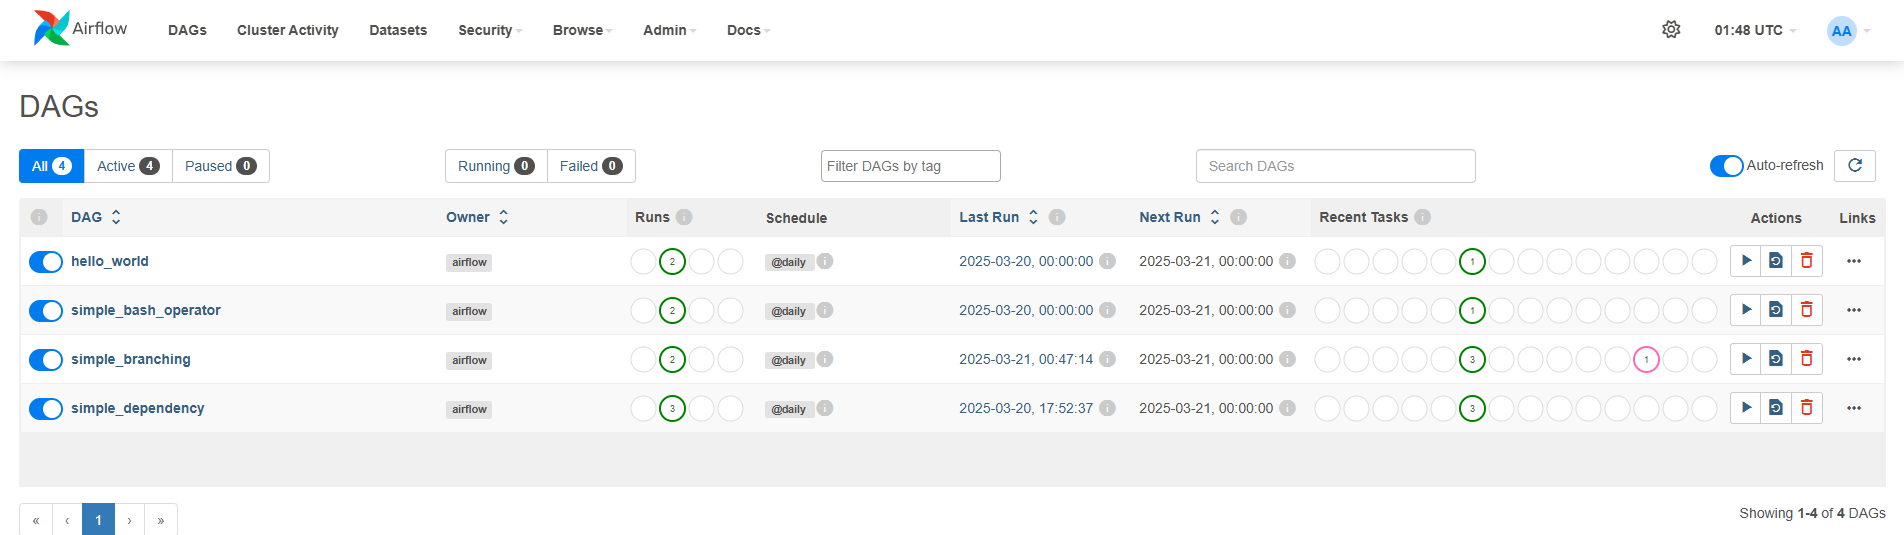
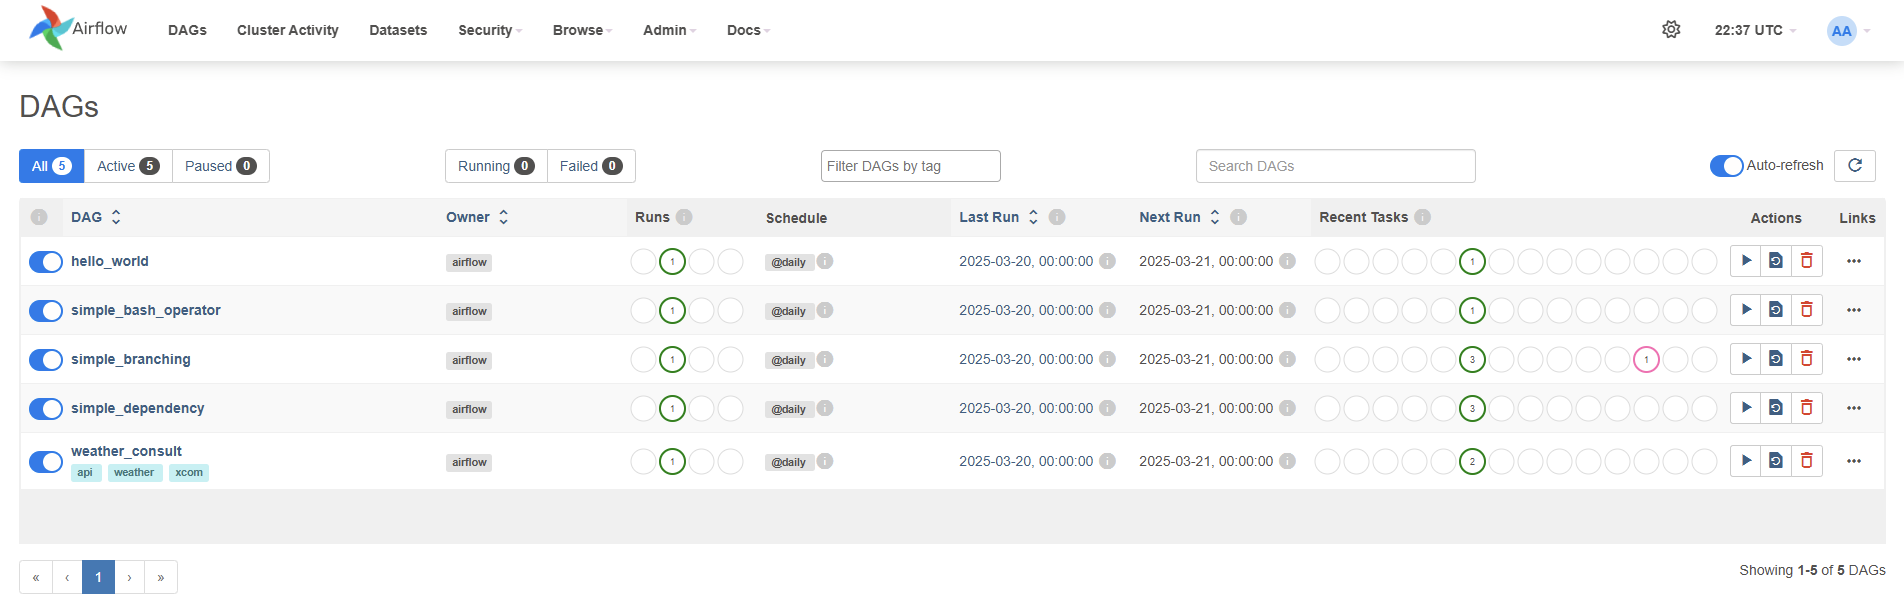
Feat: External Services use guide
- added weather api dag
- updated guide to implement external services such as api
- added new section for custom docker images

diff --git a/quickstart-airflow/dags/dag_weatherapi.py b/quickstart-airflow/dags/dag_weatherapi.py
@@ -1,0 +1,154 @@
+# Este DAG consulta la API de WeatherAPI para obtener datos del clima en Guatemala,
+# exporta los resultados a un archivo JSON y utiliza un FileSensor para monitorear
+# la creación del archivo exportado. Además, utiliza XCom para pasar datos entre tareas.
+
+# Importar librerías necesarias
+from airflow import DAG
+from airflow.operators.python import PythonOperator
+from airflow.utils.dates import days_ago
+from airflow.models import Variable
+from datetime import timedelta
+import requests
+import json
+import logging
+import os
+
+# Configuraciones generales
+CITY = "Guatemala"      
+JSON_FILE_PATH = "/opt/airflow/data/weather_result.json"
+
+default_args = {
+    'owner': 'airflow',
+    'retries': 2,
+    'retry_delay': timedelta(minutes=1),
+}
+
+# Tarea 1: Obtener datos del clima desde WeatherAPI
+def fetch_weather_data(**kwargs):
+    """
+    Consulta la API de WeatherAPI y obtiene datos del clima.
+    
+    Args:
+        **kwargs: Argumentos de contexto de Airflow.
+
+    Raises:
+        ValueError: Si no se encuentra la variable de API Key en Airflow.
+        requests.RequestException: Si hay un error en la petición HTTP.
+
+    Returns:
+        None: Los datos del clima se almacenan en XCom.
+    """
+    # Obtener la API Key de las variables de Airflow
+    # Asegúrate de que la variable 'weatherapi_key' esté configurada en Airflow
+    api_key = Variable.get("weatherapi_key", default_var=None)
+    if not api_key:
+        raise ValueError("No se encontró la variable 'weatherapi_key' en Airflow.")
+
+    # Configurar el endpoint de la API 
+    # Visitar: https://www.weatherapi.com/docs/ 
+    # para más detalles sobre la API y sus parámetros
+
+    # Endpoint para obtener el clima actual sin datos de calidad del aire
+    url = f"http://api.weatherapi.com/v1/current.json?key={api_key}&q={CITY}&aqi=no"   
+    
+    # Realizar la petición a la API
+    try:
+        response = requests.get(url, timeout=10)        # Timeout de 10 segundos
+        response.raise_for_status()                     # Lanza un error si la respuesta no es 200
+        data = response.json()                          # Convertir la respuesta a JSON
+    
+    except requests.RequestException as e:
+        # Manejo de errores de la petición
+        logging.error(f"Error al hacer la petición a WeatherAPI: {e}")
+        raise requests.RequestException(f"Error al hacer la petición a WeatherAPI: {e}")
+
+    # Obtener los datos relevantes de la respuesta
+    current = data.get("current", {})   # Obtener los datos actuales
+    location = data.get("location", {})  # Obtener la ubicación
+
+    # Verificar si la respuesta contiene datos
+    # Si no se encuentra la sección "current", lanzar un error    
+    if not current:
+        logging.error("No se encontraron datos actuales en la respuesta de WeatherAPI.")
+        raise ValueError("No se encontraron datos actuales en la respuesta de WeatherAPI.")
+
+    result = {
+        "datetime": location.get("localtime"),
+        "city": location.get("name"),
+        "condition": current.get("condition", {}).get("text"),
+        "temperature_c": current.get("temp_c"),
+        "wind_kph": current.get("wind_kph"),
+        "humidity": current.get("humidity")
+    }
+
+    # Guardar los datos en XCom para ser utilizados por la siguiente tarea
+    logging.info(f"Datos del clima obtenidos: {result}")
+    kwargs['ti'].xcom_push(key='weather_result', value=result)  
+
+
+# Tarea 2: Exportar los datos obtenidos a un archivo JSON
+def export_weather_data(**kwargs):
+    """
+    Exporta los datos del clima obtenidos a un archivo JSON.
+    
+    Args:
+        **kwargs: Argumentos de contexto de Airflow.
+
+    Raises:
+        ValueError: Si no se encuentra el resultado del clima en XCom.
+        IOError: Si hay un error al escribir el archivo JSON.
+
+    Returns:
+        None: Los datos se escriben en un archivo JSON.
+    """
+    # Obtener el resultado del clima desde XCom
+    result = kwargs['ti'].xcom_pull(key='weather_result', task_ids='fetch_weather_data')
+    
+    # Verificar si se obtuvo el resultado
+    if not result:
+        raise ValueError("No se encontró el resultado del clima en XCom.")
+
+    # Crear el directorio si no existe
+    os.makedirs(os.path.dirname(JSON_FILE_PATH), exist_ok=True)
+    
+    # Escribir los datos en un archivo JSON
+    try:
+        # Guardar los datos en un archivo JSON
+        with open(JSON_FILE_PATH, 'w') as f:
+            json.dump(result, f)
+        logging.info(f"Datos exportados correctamente en {JSON_FILE_PATH}")
+    
+    # Manejo de errores al escribir el archivo
+    except Exception as e:
+        logging.error(f"Error al escribir el archivo JSON: {e}")
+        raise IOError(f"Error al escribir el archivo JSON: {e}")
+
+# Definición del DAG
+with DAG(
+    dag_id="weather_consult",                                                            # Nombre del DAG
+    description="Consulta de clima con WeatherAPI + XCom + monitoreo con FileSensor",   # Descripción del DAG
+    default_args=default_args,                                                          # Argumentos por defecto
+    schedule_interval="@daily",                                                         # Intervalo de ejecución
+    start_date=days_ago(1),                                                             # Fecha de inicio
+    catchup=False,                                                                      # No ejecutar tareas pasadas
+    tags=["weather", "api", "xcom"],                                                    # Etiquetas para el DAG
+) as dag:
+
+    # Definición de las tareas
+    # Tarea 1: Obtener datos del clima
+    fetch = PythonOperator(
+        task_id="fetch_weather_data",
+        python_callable=fetch_weather_data,
+        provide_context=True,
+    )
+
+    # Tarea 2: Exportar datos a un archivo JSON
+    # Se utiliza el mismo JSON_FILE_PATH definido anteriormente
+    export = PythonOperator(
+        task_id="export_weather_data",
+        python_callable=export_weather_data,
+        provide_context=True,
+    )
+
+    # Definir orden de ejecución
+    fetch >> export

diff --git a/quickstart-airflow/README.md b/quickstart-airflow/README.md
@@ -18,6 +18,11 @@ Este entorno de `quickstart-airflow` está diseñado para facilitar la instalaci
 - [📋 Mensajes de Éxito Esperados](#-mensajes-de-éxito-esperados)
 - [✅ Verificar el Estado de los Servicios](#-verificar-el-estado-de-los-servicios)
 - [🌐 Acceder a la Interfaz Web](#-acceder-a-la-interfaz-web)
+- [🧱 Extender la Imagen de Apache Airflow](#-extender-la-imagen-de-apache-airflow)
+  - [📦 Paso 1: Crear requirements.txt](#-paso-1-crear-requirementstxt)
+  - [🐳 Paso 2: Crear el Dockerfile](#-paso-2-crear-el-dockerfile)
+  - [📄 Paso 3: Modificar docker-compose.yaml](#-paso-3-modificar-docker-composeyaml)
+  - [🧪 Paso 4: Reconstruir la Imagen](#-paso-4-reconstruir-la-imagen)
 - [🛑 Detener el Entorno](#-detener-el-entorno)
 - [🧹 Eliminar Contenedores y Volúmenes](#-eliminar-contenedores-y-volúmenes)
 - [💻 Uso de VSCode con Dev Containers](#-uso-de-vscode-con-dev-containers)
@@ -43,6 +48,7 @@ quickstart-airflow/
 │   ├─ dag_bash_operator.py       # Ejemplo de un DAG con BashOperator
 │   ├─ dag_dependencies.py        # Ejemplo de un DAG con dependencias entre tareas
 │   ├─ dag_branching.py           # Ejemplo de un DAG con ramas
+│   ├─ dag_weatherapi.py          # Ejemplo de un DAG que utiliza un servicio externo
 │   └─ README.md                  # Guía de uso y explicación de los DAGs
 |
 ├─ plugins/               # Plugins personalizados (si son necesarios)
@@ -161,6 +167,72 @@ Asegúrate de que todos los servicios estén en estado **healthy**. Si dicen `he
 
    ![Airflow GUI](screenshots/airflow-gui.png)
 
+
+## 🧱 Extender la Imagen de Apache Airflow
+Por defecto, este entorno usa la imagen oficial de Apache Airflow (apache/airflow:2.10.5). Sin embargo, cuando queremos **agregar paquetes adicionales** (por ejemplo, para consumir APIs externas o procesar archivos), es una mejor práctica extender la imagen base mediante un `Dockerfile` y un archivo `requirements.txt`.
+
+> [!IMPORTANT]
+> Apache recomienda no usar `_PIP_ADDITIONAL_REQUIREMENTS` para el desarrollo local, porque esto provoca que los contenedores tarden más en iniciar y causar conflictos. Lo mejor es crear una imagen personalizada.
+
+### 📦 Paso 1: Crear requirements.txt
+En la raíz del proyecto, crea un archivo llamado requirements.txt con el siguiente contenido:
+
+```bash
+requests
+```
+Puedes agregar cualquier otro paquete de PyPI necesario para tus DAGs. En este caso solo necesitamos el paquete de `requests` ya que usaremos [Weather API](https://www.weatherapi.com/) 
+
+
+### 🐳 Paso 2: Crear el Dockerfile
+También en la capreta `quickstart-airflow` (junto a tu `docker-compose.yaml`), crea un archivo llamado `Dockerfile` con el siguiente contenido:
+
+```dockerfile
+FROM apache/airflow:2.10.5
+
+# Copiamos el archivo con dependencias
+COPY requirements.txt .
+
+# Instalamos Airflow en la misma versión para evitar conflictos, más nuestras dependencias
+RUN pip install --no-cache-dir "apache-airflow==${AIRFLOW_VERSION}" -r requirements.txt
+```
+
+### 📄 Paso 3: Modificar docker-compose.yaml
+Ubica esta sección en la parte superior del archivo:
+```yaml
+x-airflow-common:
+  &airflow-common
+  image: ${AIRFLOW_IMAGE_NAME:-apache/airflow:2.10.5}
+  # build: .
+```
+
+Y comenta la linea con image y descomenta la de build asi:
+```yaml
+x-airflow-common:
+  &airflow-common
+  # image: ${AIRFLOW_IMAGE_NAME:-apache/airflow:2.10.5}
+  build: .
+```
+> [!TIP]
+> Esto le dice a Docker Compose que construya una imagen personalizada usando el Dockerfile y el requirements.txt que creaste.
+
+### 🧪 Paso 4: Reconstruir la Imagen
+Cada vez que modifiques el Dockerfile o el requirements.txt, debes reconstruir la imagen con:
+```bash
+docker compose build
+```
+
+Y luego iniciar el entorno como siempre:
+```bash
+docker compose up -d
+```
+
+También puedes usar:
+```bash
+docker compose up --build -d
+```
+para forzar la reconstrucción al levantar el entorno.
+
+
 ## 🛑 Detener el Entorno
 
 Para detener la ejecución del entorno utiliza el siguiente comando:
@@ -186,6 +258,7 @@ docker compose down
 >[!CAUTION] 
 > Esto eliminará todos los volúmenes, datos almacenados e imágenes descargadas.
 
+
 ## 💻 Uso de VSCode con Dev Containers
 
 > [!TIP]
@@ -203,8 +276,9 @@ docker compose down
 ### ⚙ Pasos para Configurar el Dev Container
 
 1. **Crear un Dockerfile:** En el mismo directorio donde está el `docker-compose.yaml`, crea un archivo `Dockerfile` con el siguiente contenido mínimo:
- > [!NOTE]
- > Esto es unicamente para facilitarnos el proceso de creacion de la conexión remota.
+   
+   > [!NOTE]
+   > Esta paso no es necesario si ya has pasado por la seccion [🧱 Extender la Imagen de Apache Airflow](#-extender-la-imagen-de-apache-airflow)
 
    ```dockerfile
    FROM apache/airflow:<version>

diff --git a/quickstart-airflow/dags/README.md b/quickstart-airflow/dags/README.md
@@ -15,6 +15,7 @@ Esta carpeta contiene ejemplos simples de **DAGs** (Directed Acyclic Graphs) par
     - [2. DAG con BashOperator](#2-dag-con-bashoperator)
     - [3. DAG con dependencias entre tareas](#3-dag-con-dependencias-entre-tareas)
     - [4. DAG con Branching (ramificación condicional)](#4-dag-con-branching-ramificación-condicional)
+    - [5. DAG con API externa, XComs y monitoreo](#5-dag-con-api-externa-y-uso-de-xcoms)
 - [🚀 Cómo Usar los DAGs](#-cómo-usar-los-dags)
 - [🔗 Referencias](#-referencias)
 
@@ -128,6 +129,77 @@ Este DAG demuestra cómo usar `BranchPythonOperator` para ejecutar una u otra ta
 ![Captura Branching](../screenshots/branching.png)
 
 
+### 5. DAG con API externa y uso de XComs
+
+**Archivo:** `dag_weatherapi.py`
+
+Este DAG muestra cómo integrar Apache Airflow con un servicio externo como `WeatherAPI`, manejar errores, utilizar `XComs` para pasar datos entre tareas y guardar resultados en un archivo JSON.
+
+> [!TIP]
+> Este DAG requiere una imagen personalizada de Airflow que incluya el paquete `requests`. Asegúrate de seguir la sección "Extender imagen base" en el README principal del quickstart para construir la imagen antes de ejecutar este DAG.
+
+#### 🌐 API utilizada
+
+Se utiliza la API de [WeatherAPI.com](https://www.weatherapi.com/) para consultar el clima actual de una ciudad.
+
+#### 🔑 Obtener y configurar la API Key
+
+1. Regístrate en [WeatherAPI.com](https://www.weatherapi.com/signup.aspx) para obtener una cuenta gratuita.
+2. Copia tu API Key desde el dashboard.
+3. Ingresa a la interfaz web de Airflow: [http://localhost:8080](http://localhost:8080)
+4. Ve a **Admin → Variables**:
+    ![Admin Variables](../screenshots/variables-admin.png)
+
+5. Luego agrega una nueva variable:
+    ![Variable WeatherAPI](../screenshots/weatherapi_key.png)
+
+> [!NOTE]
+> Utilizar Variables en Airflow permite mantener seguras las credenciales sensibles sin exponerlas en el código fuente.
+
+
+#### Flujo del DAG
+
+1. **`fetch_weather_data`**:  
+   Consulta la API y extrae los siguientes campos:
+   - Fecha y hora local
+   - Ciudad
+   - Condición del clima
+   - Temperatura (°C)
+   - Velocidad del viento (km/h)
+   - Humedad (%)
+
+   Los resultados se almacenan en `XCom`.
+   ![XCOM Weather](../screenshots/xcom.png)
+
+2. **`export_weather_data`**:  
+   Toma los datos desde `XCom` y los guarda en un archivo JSON en la ruta `/opt/airflow/data/weather_result.json`.
+
+
+#### Ejemplo del archivo generado (`weather_result.json`)
+
+```json
+{
+  "datetime": "2025-03-21 16:15",
+  "city": "Guatemala City",
+  "condition": "Partly cloudy",
+  "temperature_c": 22.1,
+  "wind_kph": 15.5,
+  "humidity": 61
+}
+```
+
+
+#### Operadores utilizados
+
+- `PythonOperator`: para ejecutar la lógica de negocio (consulta de API y guardado del archivo).
+- `XCom`: para compartir datos entre tareas de forma segura.
+
+
+#### Vista esperada del DAG
+
+![Captura Weather DAG](../screenshots/weather_dag.png)
+
+
 
 ## 🚀 Cómo Usar los DAGs
 
@@ -148,11 +220,12 @@ docker compose restart airflow-webserver
     ![Trigger DAG](../screenshots/run_dag.png)
 
 
-    Luego ve a la ventana de graph, selecciona la tarea que deseas verificar y visita logs, 
+4. Luego ve a la ventana de graph, selecciona la tarea que deseas verificar y visita logs, 
     
-    ![Vista DAG](../screenshots/Graph_view.png)
+    ![Vista DAG](../screenshots/graph_view.png)
 
-    En el log deberias de ver la ejecución del DAG, para el ejemplo de `Hello World` el log se ve así:
+
+5. En el log deberias de ver la ejecución del DAG, para el ejemplo de `Hello World` el log se ve así:
     
     ![Vista Logs](../screenshots/dag_logs.png)
     
